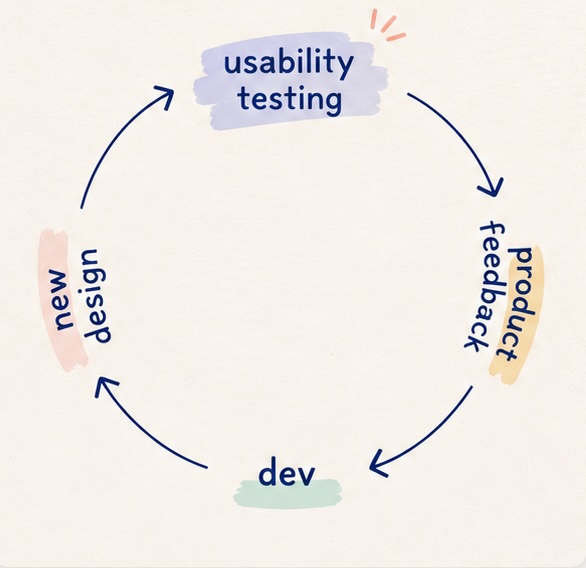
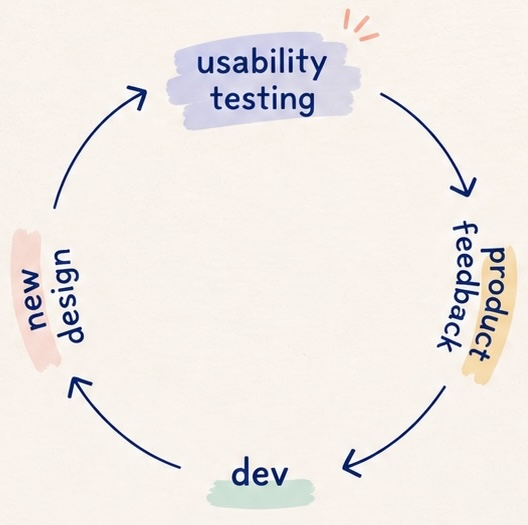
center diagram image, increase section spacing, remove experiment heading, restore row lines

diff --git a/index.html b/index.html
@@ -374,7 +374,9 @@
       line-height: 1.8;
       max-width: 560px;
     }
-    .bio-text strong {
+    .bio-text strong,
+    .process-row-meta strong,
+    .project-text strong {
       color: #555552;
       font-weight: 600;
     }
@@ -643,7 +645,7 @@
 
     /* ─── Process row (Lighting Design steps) ─── */
     .process-row {
-      padding: 56px 0;
+      padding: 32px 0;
       border-bottom: 1px solid var(--border);
       display: flex;
       flex-direction: column;
@@ -718,6 +720,28 @@
       font-weight: 300;
       color: var(--text);
       line-height: 1.85;
+    }
+    .process-bullet-list {
+      margin: 0;
+      padding: 0;
+      list-style: none;
+      display: flex;
+      flex-direction: column;
+      gap: 6px;
+    }
+    .process-bullet-list li {
+      font-size: var(--fs-base);
+      font-weight: 300;
+      color: var(--text);
+      line-height: 1.75;
+      padding-left: 1em;
+      position: relative;
+    }
+    .process-bullet-list li::before {
+      content: '–';
+      position: absolute;
+      left: 0;
+      color: var(--text-muted);
     }
 
 
@@ -1252,7 +1276,7 @@
     <div class="page-bottom">
       <div class="card-grid">
         <a class="nav-card nav-card--image is-project" href="#" data-page="ai" style="background: #fff;">
-          <img class="nav-card-img" src="images/ai_feedback_loop.JPG" alt="Diagram of an iterative product loop cycling through usability testing, user feedback, development, and new design"
+          <img class="nav-card-img" src="images/TreeID.png" alt="TreeID app icon — a tree illustrated in dots"
                style="object-fit: contain; object-position: center center;"
                onerror="this.parentElement.classList.remove('nav-card--image')">
           <div class="nav-card-footer nav-card-footer--detailed">
@@ -1260,7 +1284,7 @@
               <span class="nav-card-label">AI Feedback Loop</span>
               <span class="nav-card-arrow">→</span>
             </div>
-            <p class="nav-card-desc">What happens when you take design, dev, and product out of the product lifecycle?</p>
+            <p class="nav-card-desc">An experiment exploring what happens when you remove design, dev, and product from the product lifecycle.</p>
           </div>
         </a>
         <a class="nav-card nav-card--image is-project" href="#" data-page="interviews">
@@ -1537,21 +1561,21 @@
 
     <div class="page-top">
       <div class="circle-photo is-project">
-        <img src="images/ai_feedback_loop.JPG" alt="Diagram of an iterative product loop cycling through usability testing, user feedback, development, and new design"
+        <img src="images/TreeID.png" alt="TreeID app icon — a tree illustrated in dots"
              style="object-position: center center;"
              onerror="this.parentElement.classList.add('empty'); this.remove()">
       </div>
       <div class="intro-text">
         <h2 class="intro-title">The AI Feedback Loop.</h2>
         <p class="intro-sub">
-          What happens when you take design, dev, and product out of the product lifecycle?
+          An experiment exploring what happens when you remove design, dev, and product from the product lifecycle.
         </p>
       </div>
     </div>
 
     <div class="project-body">
 
-      <div style="display: flex; flex-direction: column; gap: 24px;">
+      <div style="display: flex; flex-direction: column; gap: 48px;">
 
         <div class="project-cols" style="align-items: start;">
 
@@ -1561,18 +1585,24 @@
               This project explores what happens when AI and usability testing are connected in a closed loop with no designer or developer in the middle. The premise is simple: an AI generates a prototype, real users test it, and their feedback goes straight back into the AI to generate the next version.
             </p>
             <p class="project-text">
-              The interesting question isn't whether AI can design — it's what kind of design emerges when the only input is real user behavior, iterated on continuously and automatically.
-            </p>
-            <p class="project-text">
               Tools like UserTesting.com already let you connect to users on demand. In a fully realized version of this loop, a design could go from prototype to tested to revised without a human decision point in between. And since most usability testing doesn't require specialized expertise, this could be an inexpensive way to iterate.
             </p>
             <p class="project-text">
-              To be clear: I believe humans should be in the loop with AI. This project is a deliberate experiment to see what happens when they're not.
+              I believe humans should be in the loop with AI. This project is a deliberate experiment to see what happens when they're not.
             </p>
           </div>
 
           <div>
-            <p class="project-section-label">The result</p>
+            <img src="images/ai_feedback_loop.png" alt="Diagram of an iterative product loop cycling through usability testing, user feedback, development, and new design"
+                 style="width: 80%; height: auto; display: block; margin: 0 auto;">
+          </div>
+
+        </div>
+
+        <div class="project-cols" style="align-items: start;">
+
+          <div>
+            <p class="project-section-label">The Result</p>
             <div class="process-row-phones">
               <div class="process-row-phone">
                 <img src="images/ai_feedback_loop/final-home.png" alt="App home screen with a tree photo and two action buttons: Take a Photo and Choose from Library">
@@ -1583,19 +1613,17 @@
             </div>
           </div>
 
-        </div>
+          <div>
+            <p class="project-section-label">My takeaway</p>
+            <p class="project-text"><strong>It took more iterations than I expected, but the loop produced a working app.</strong><br>Claude optimized for the feedback it received rather than design best practices — it gave users what they asked for, not what a skilled designer would know to do from the start. It also didn't weigh findings by frequency; one user's feedback carried the same weight as three. Better prompt structure could help address both.</p>
+            <p class="project-text">I was impressed with the output. One of the main limiting factors was the lightweight prompts I used — with more structure around how to weigh and incorporate findings, the loop could get there faster and more reliably.</p>
+          </div>
 
-        <div class="takeaway-wide">
-          <p class="project-section-label">My takeaway</p>
-          <p class="project-text">It took more iterations than I expected to get to a decent-looking app. But, surprisingly, it did get there.</p>
-          <p class="project-text">That said, the designs Claude produced didn't always follow best practices or standard design patterns — it was optimizing for the feedback it received, not for what a skilled designer would know to do from the start.</p>
-          <p class="project-text">Claude also didn't prioritize findings the way I would when conducting research — it treated feedback from one user the same as feedback from three. A more experienced researcher would weigh findings by how many users raised them. More specific instructions, a tighter prompt structure, or a more specific skill could help address this.</p>
         </div>
 
       </div>
 
       <div>
-        <p class="project-section-label">The experiment</p>
         <div class="process-rows">
 
           <!-- Iteration 1 -->
@@ -1616,15 +1644,24 @@
               <div class="process-row-text">
                 <div>
                   <p class="process-row-meta-label">Research findings</p>
-                  <p class="process-row-desc">The core flow worked — users could identify a tree without friction. Three problems emerged: a "?" placeholder icon that everyone flagged as unfinished, a results page that didn't telegraph scrolling (one user never found the fun fact or the CTA), and a consistent ask for more depth — reference photos, tappable match cards, a habitat map.</p>
+                  <ul class="process-bullet-list">
+                    <li>Core flow worked — users could identify a tree without friction</li>
+                    <li>"?" placeholder icon flagged as unfinished by all users</li>
+                    <li>Results page didn't afford scrolling — one user never found the fun fact or CTA</li>
+                    <li>Consistent ask for more depth: reference photos, tappable match cards, a habitat map</li>
+                  </ul>
                 </div>
                 <div class="process-row-meta-block">
                   <p class="process-row-meta-label">AI's recommendations</p>
-                  <p class="process-row-meta">Removed the redundant Recent strip from the home screen. Added a sticky "Identify Another Tree" button outside the scroll view. Made each match card expandable with a Wikipedia detail sheet. Linked the habitat card to an Apple Maps search.</p>
+                  <ul class="process-bullet-list">
+                    <li>Remove the redundant Recent strip from the home screen</li>
+                    <li>Add a sticky "Identify Another Tree" button outside the scroll view</li>
+                    <li>Make each match card expandable with a Wikipedia detail sheet</li>
+                    <li>Link the habitat card to an Apple Maps search</li>
+                  </ul>
                 </div>
                 <div class="process-row-meta-block">
-                  <p class="process-row-meta-label">My take</p>
-                  <p class="process-row-meta">Three of the four recommendations were each supported by only one user — a real generalizability problem. The AI also missed the "?" icon entirely, despite all three users raising it independently. That's both a sampling problem and a prompt problem. I needed to tighten both.</p>
+                  <p class="process-row-meta"><strong>Three of the four recommendations were each raised by only one user — not enough to be a reliable finding.</strong><br>The AI also missed the "?" icon entirely, despite all three users raising it independently.</p>
                 </div>
               </div>
             </div>
@@ -1648,15 +1685,22 @@
               <div class="process-row-text">
                 <div>
                   <p class="process-row-meta-label">Research findings</p>
-                  <p class="process-row-desc">Results improved, but the landing page was unanimously called "funny" or unpolished. The bigger issue: the green "Identify a Tree" button was so dominant that users interpreted the confirmation dialog as a continuation of the same step. They kept expecting to press the main button again rather than choose from the dialog.</p>
+                  <ul class="process-bullet-list">
+                    <li>Landing page unanimously called "funny" or unpolished</li>
+                    <li>Users kept expecting to press the main button again rather than choose from the dialog</li>
+                  </ul>
                 </div>
                 <div class="process-row-meta-block">
                   <p class="process-row-meta-label">AI's recommendations</p>
-                  <p class="process-row-meta">Redesigned the landing page with a centered hero structure — app name and tagline at the top, illustration in the middle, buttons anchored at the bottom. Replaced the single CTA with two explicit buttons ("Take Photo" / "Choose from Library"), eliminating the dialog entirely. Added reference photos to expanded match cards. Removed confusing scroll-hint chevrons.</p>
+                  <ul class="process-bullet-list">
+                    <li>Redesign the landing page with a centered hero structure — app name and tagline at the top, illustration in the middle, buttons anchored at the bottom</li>
+                    <li>Replace the single CTA with two explicit buttons ("Take Photo" / "Choose from Library"), eliminating the dialog entirely</li>
+                    <li>Add reference photos to expanded match cards</li>
+                    <li>Remove confusing scroll-hint chevrons</li>
+                  </ul>
                 </div>
                 <div class="process-row-meta-block">
-                  <p class="process-row-meta-label">My take</p>
-                  <p class="process-row-meta">The biggest visual leap of the three rounds. The landing page fix was the right call. But the AI was still overgeneralizing — several recommendations came from two users rather than three. The pattern-matching was improving, but the threshold for what counted as a "finding" was still too low.</p>
+                  <p class="process-row-meta"><strong>Removing duplicate text and prioritizing information visually were changes in the right direction.</strong><br>But the AI was still overgeneralizing — several recommendations came from two users rather than three. The threshold for what counted as a "finding" was still low.</p>
                 </div>
               </div>
             </div>
@@ -1680,15 +1724,20 @@
               <div class="process-row-text">
                 <div>
                   <p class="process-row-meta-label">Research findings</p>
-                  <p class="process-row-desc">The identify flow and results screen stopped drawing complaints entirely — a meaningful improvement from round one. The one issue all three users raised independently, in almost identical terms: a black "?" box sitting on top of the green circle in the hero. The tree emoji wasn't rendering in the iOS simulator and was falling back to a placeholder. One rendering bug, otherwise working.</p>
+                  <ul class="process-bullet-list">
+                    <li>Identify flow and results screen stopped drawing complaints — a meaningful improvement from round one</li>
+                    <li>One issue raised by all three users: a black "?" box on top of the green circle (tree emoji not rendering in the iOS simulator)</li>
+                  </ul>
                 </div>
                 <div class="process-row-meta-block">
                   <p class="process-row-meta-label">AI's recommendations</p>
-                  <p class="process-row-meta">Replaced the emoji with an SF Symbol (tree.fill) for reliable rendering across all iOS devices. Nudged the fun fact text back from secondary grey to primary — the deprioritization from the previous round had gone slightly too far.</p>
+                  <ul class="process-bullet-list">
+                    <li>Replace the emoji with an SF Symbol (tree.fill) for reliable rendering across all iOS devices</li>
+                    <li>Nudge the fun fact text back from secondary grey to primary — the deprioritization from the previous round had gone slightly too far</li>
+                  </ul>
                 </div>
                 <div class="process-row-meta-block">
-                  <p class="process-row-meta-label">My take</p>
-                  <p class="process-row-meta">Three rounds in, the loop had produced a working, coherent app. That surprised me. What it exposed clearly: AI is good at pattern-matching feedback into UI changes, but it consistently overgeneralizes from single data points and misses what users aren't saying. The loop may work — but having an initial design pass could save a lot of iterations.</p>
+                  <p class="process-row-meta"><strong>The app was usable, but it still hadn't solved for the icon issue that was mentioned every round of testing.</strong><br>In this case, AI was overgeneralizing UI changes from single data points. The icon was flagged every round, yet never prioritized. The loop may work, but having an initial design pass could save a lot of iterations. I incorporated these recommendations to get the result shown above.</p>
                 </div>
               </div>
             </div>